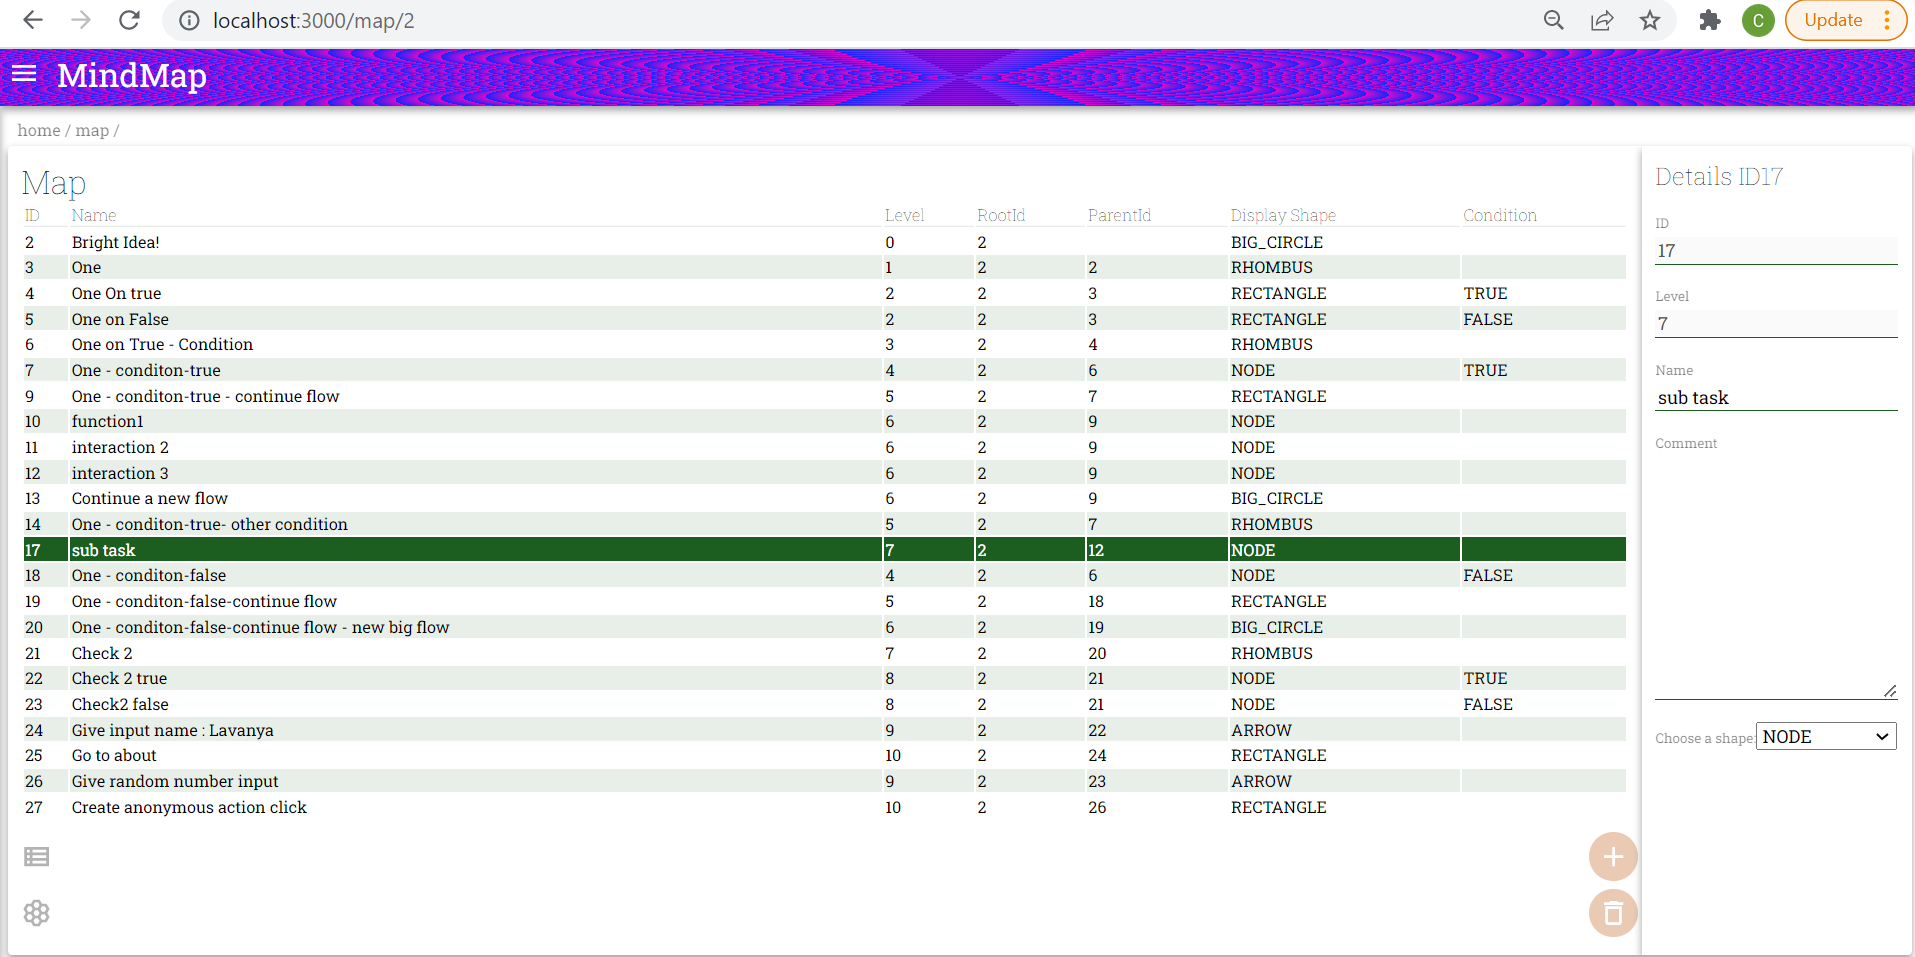
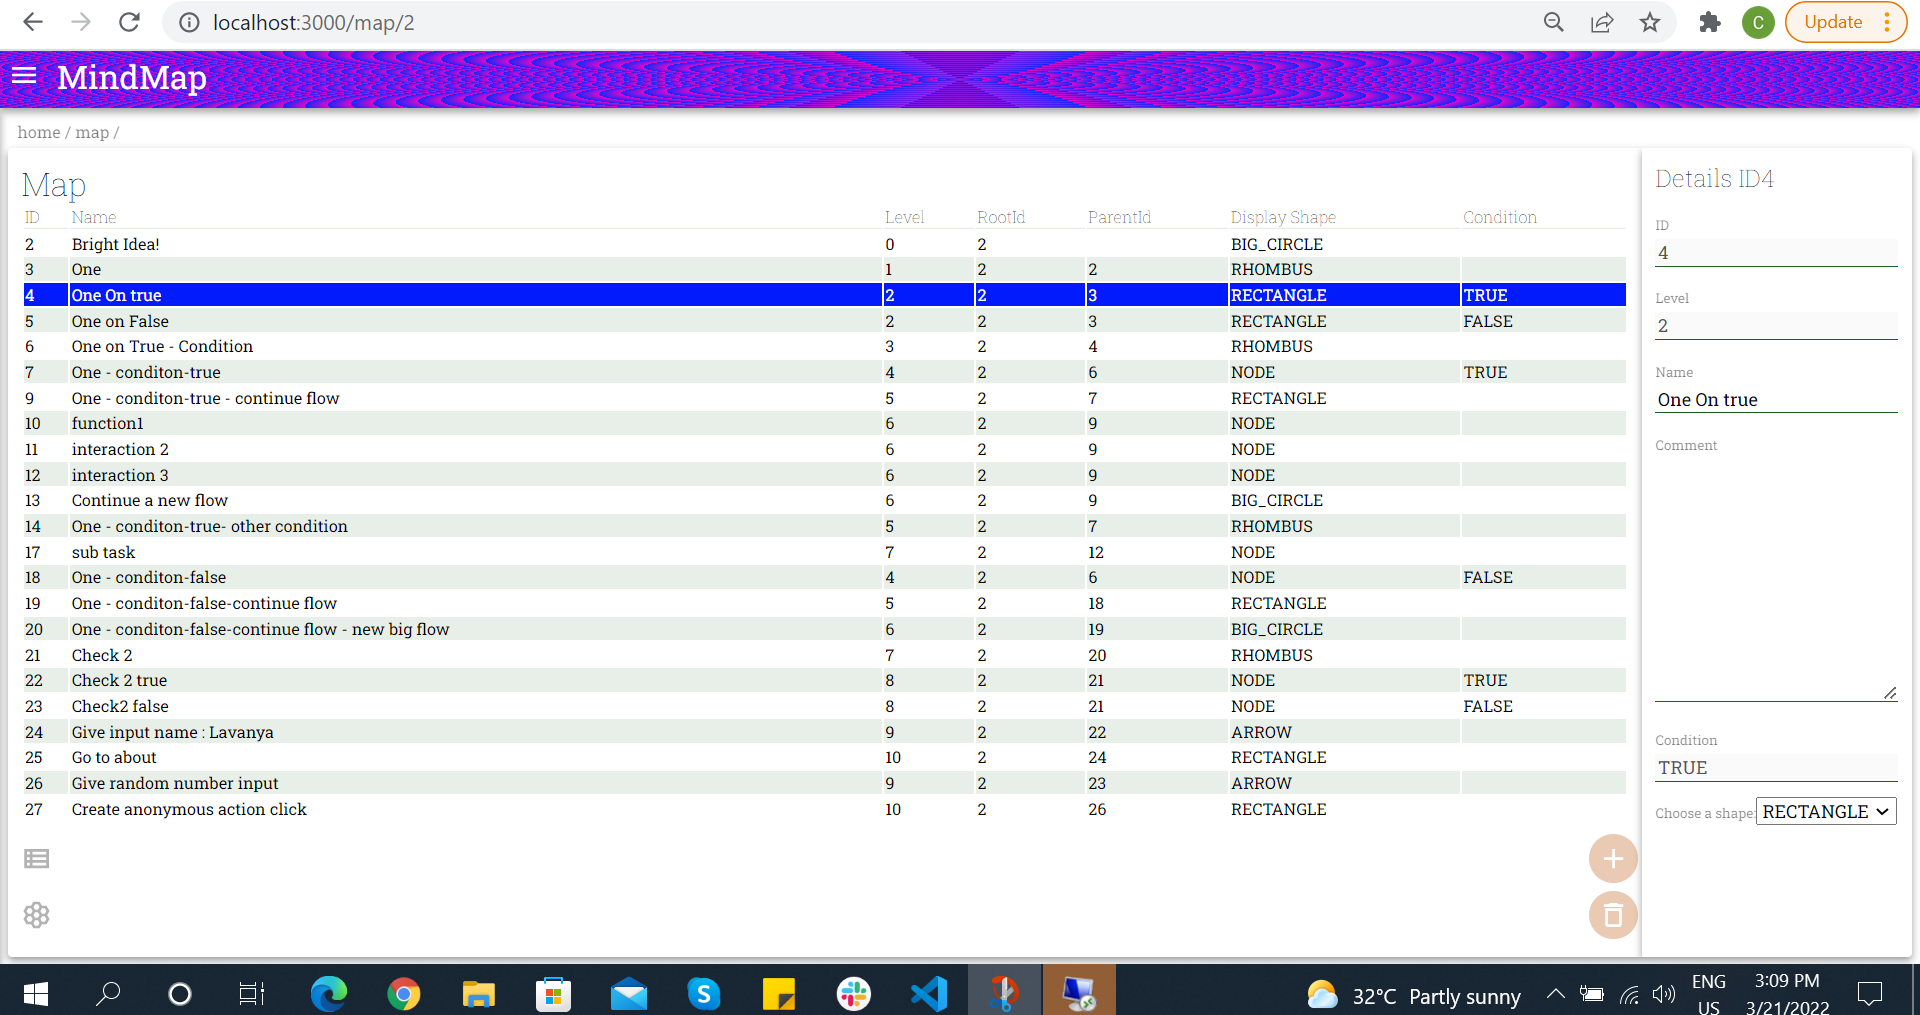
Updated css

diff --git a/src/ui-components/tableview.module.css b/src/ui-components/tableview.module.css
@@ -22,6 +22,6 @@ th {
 }
 
 .selected {
-    background-color: #1b5e20;
+    background-color: rgb(2, 27, 252);
     color: white;
 }
